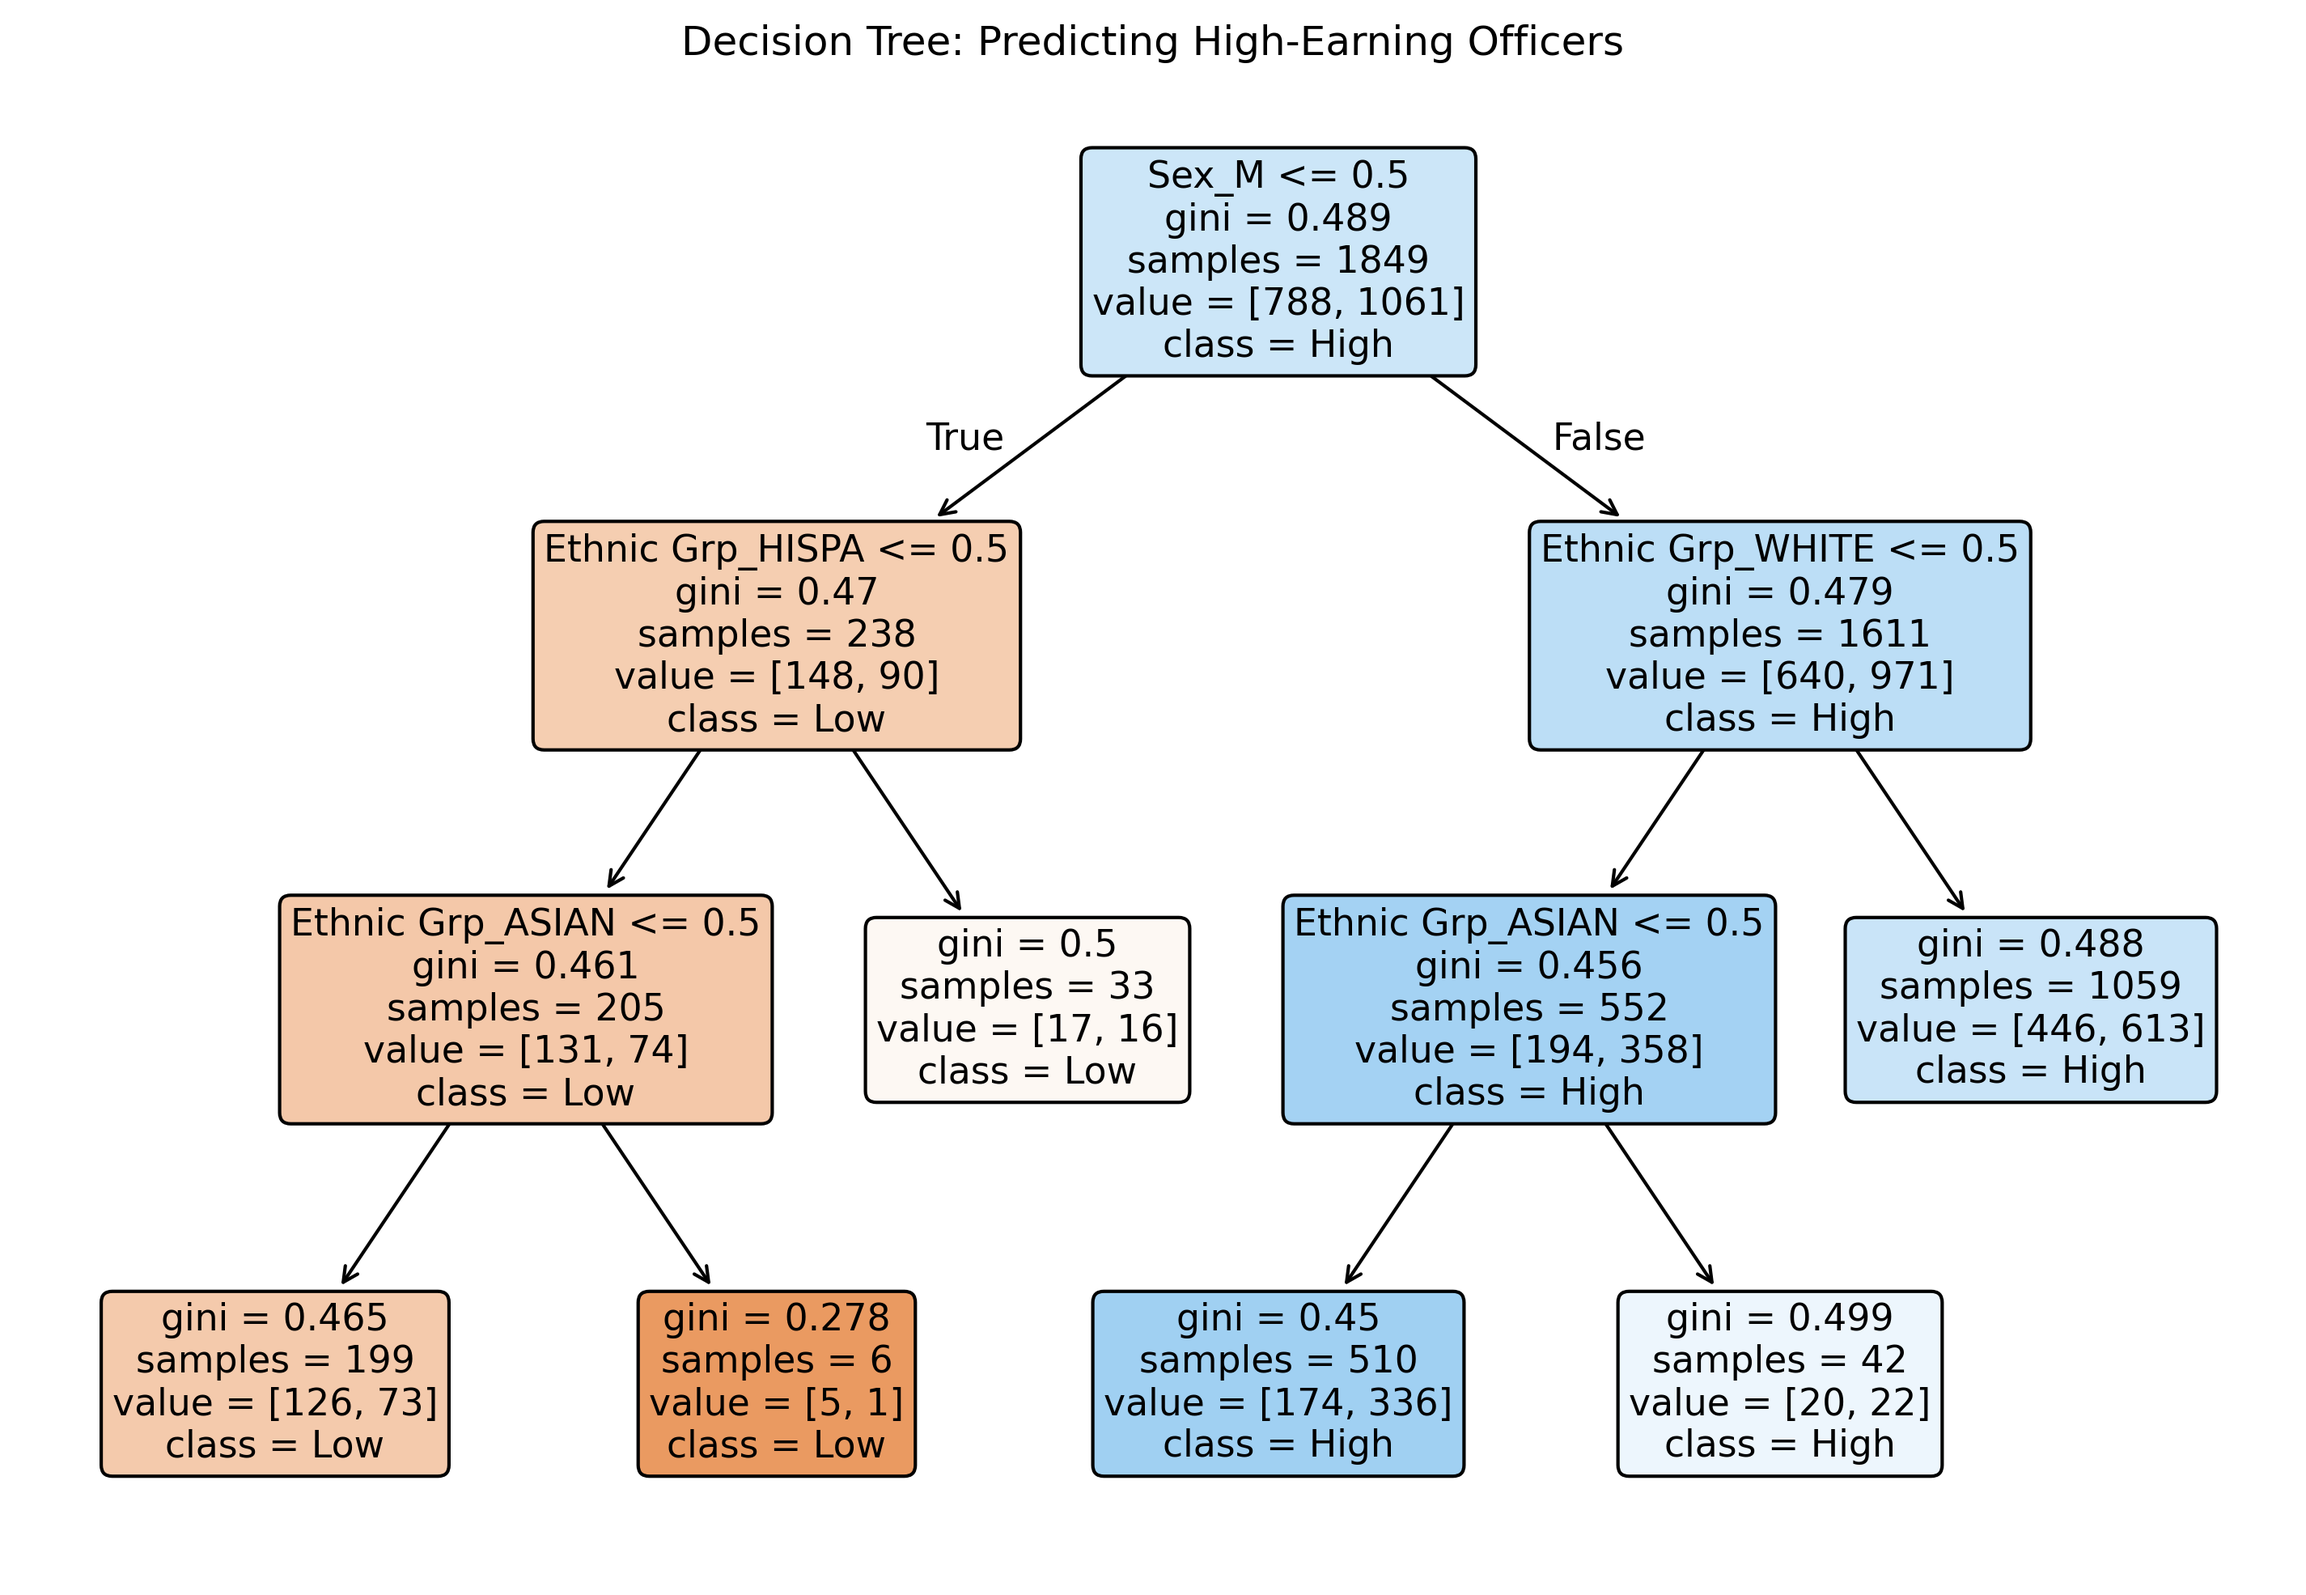
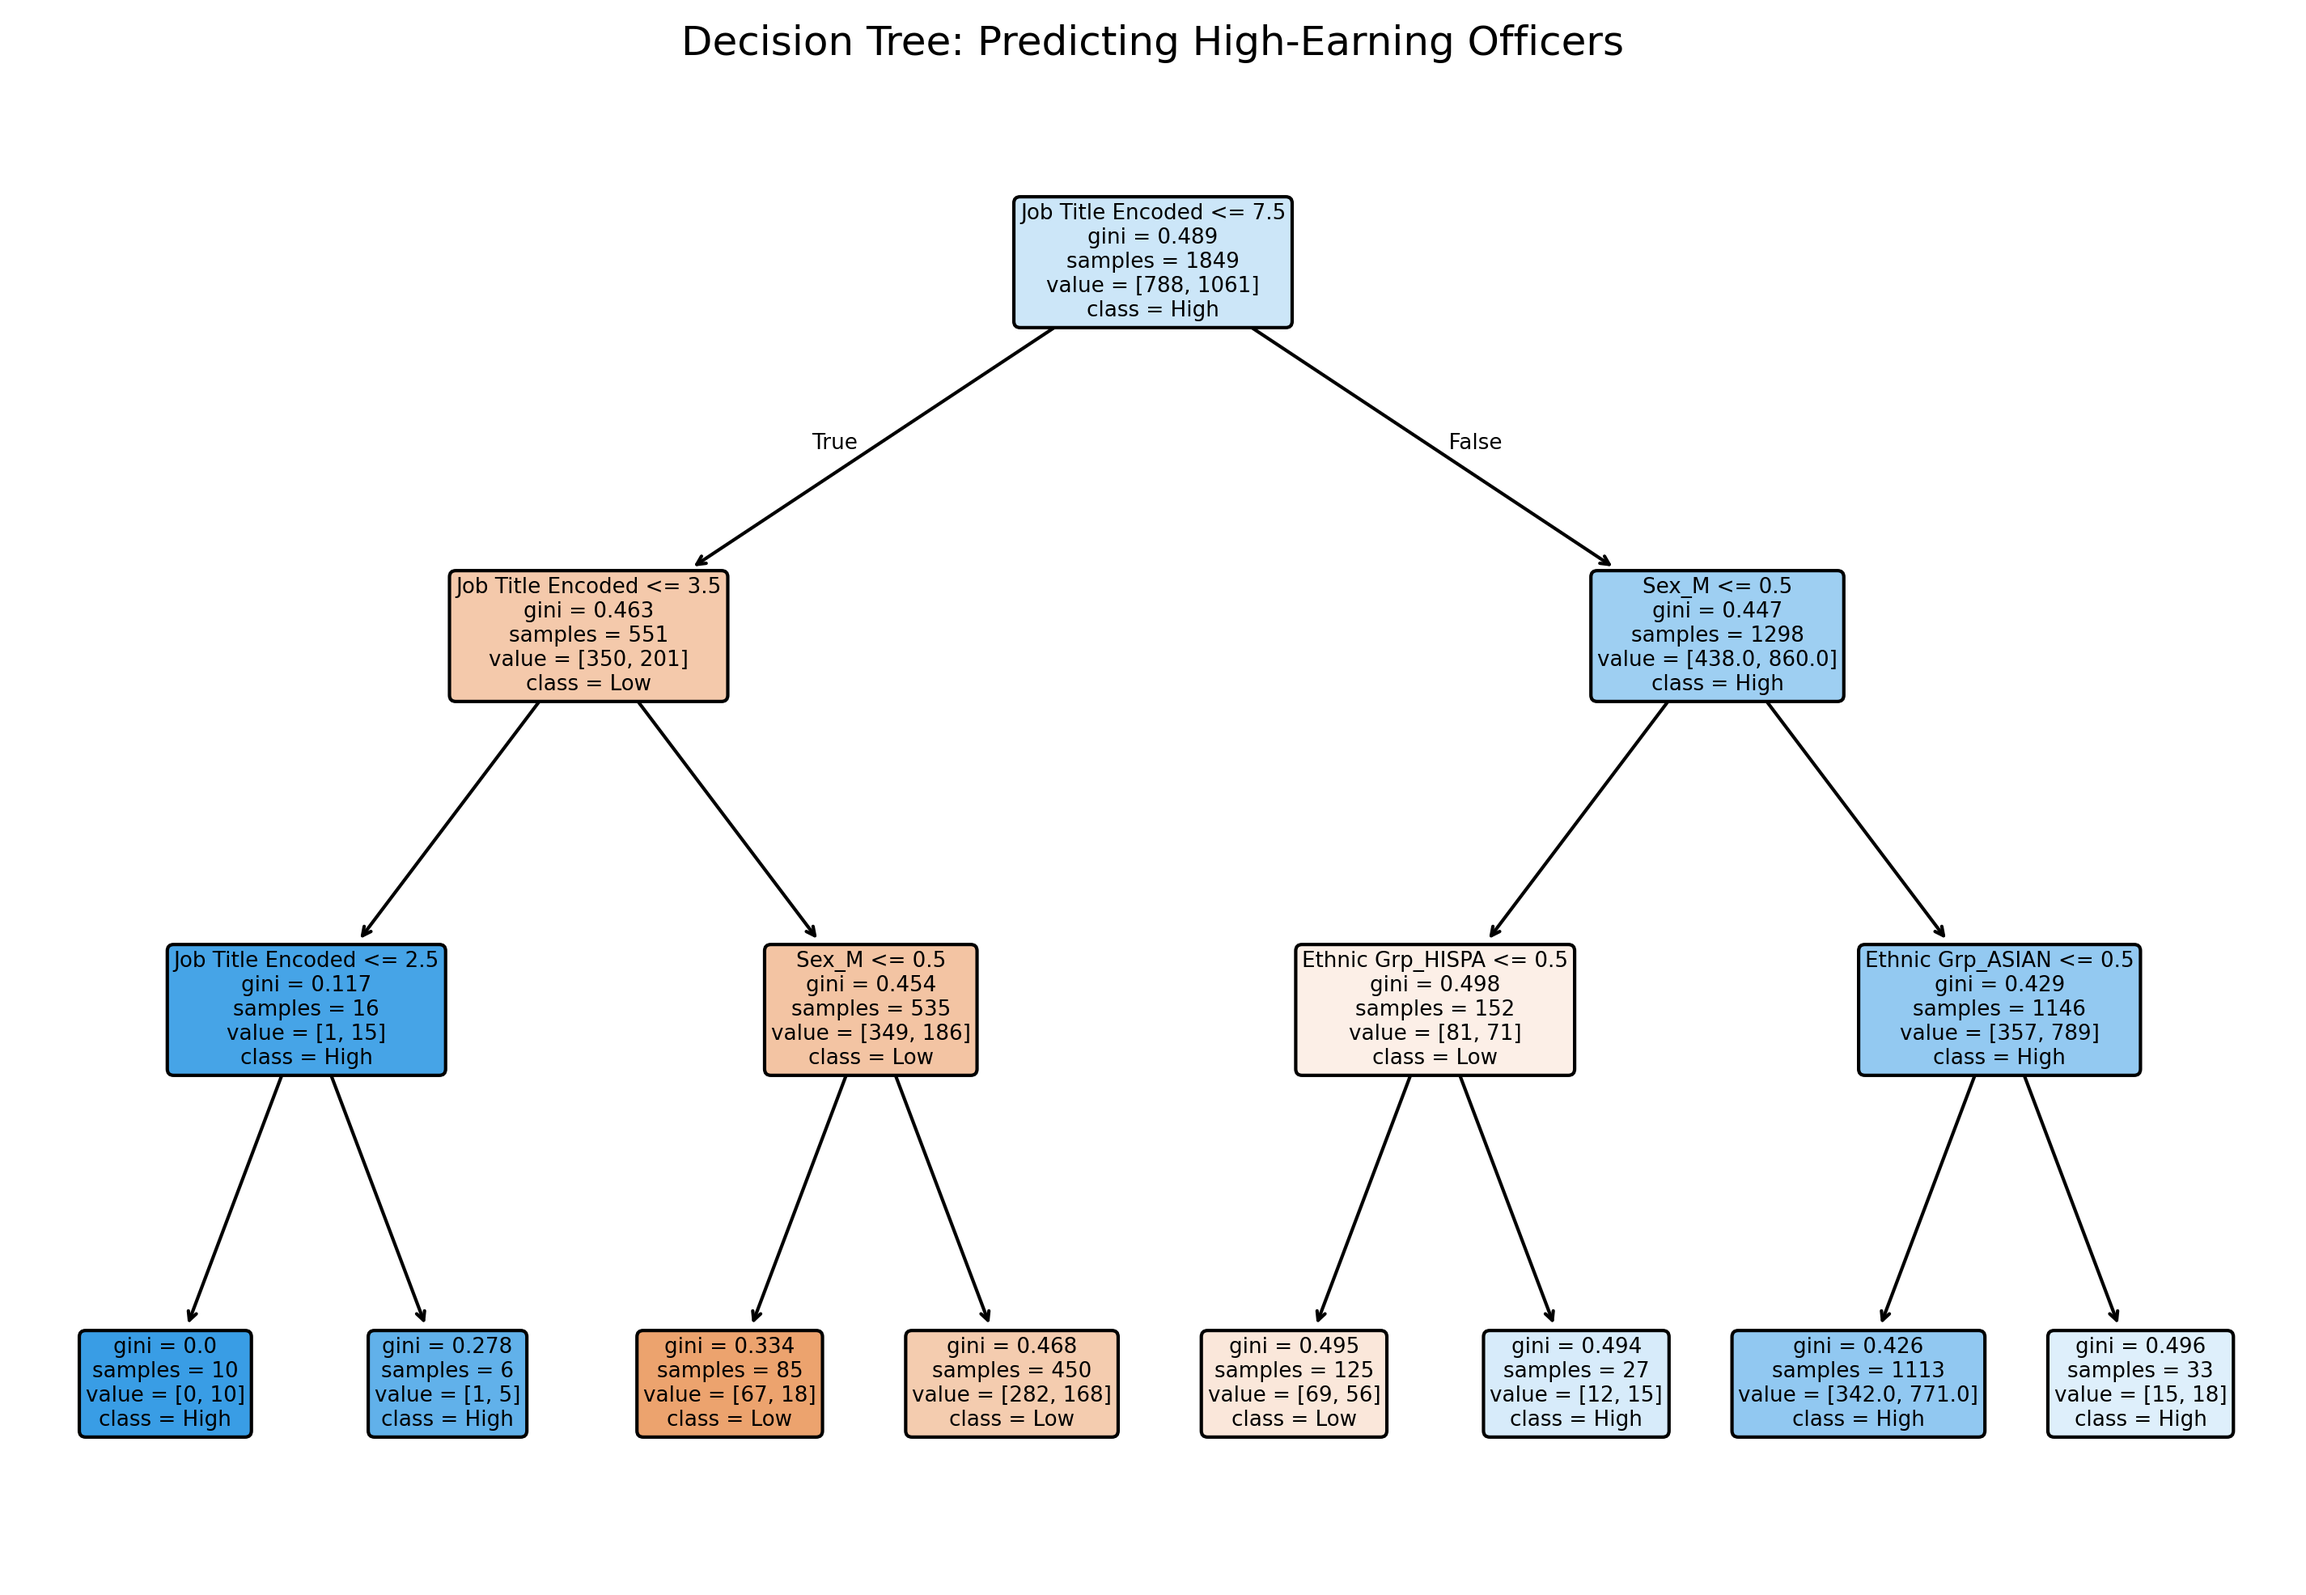
added encoded job title to decision tree

diff --git a/analysis/roster/decision_tree.py b/analysis/roster/decision_tree.py
@@ -31,7 +31,7 @@ if __name__ == "__main__":
     # Features to use for prediction
     # feature_cols = ['REGULAR', 'OVERTIME', 'DETAIL', 'QUINN_EDUCATION', 'INJURED', 'RETRO', 'OTHER', 'Sex_M', 'Ethnic Grp_BLACK', 'Ethnic Grp_HISPA', 'Ethnic Grp_WHITE', 'Ethnic Grp_ASIAN'] # everything possible
     # feature_cols = ['REGULAR', 'OVERTIME','Sex_M', 'Ethnic Grp_BLACK', 'Ethnic Grp_HISPA', 'Ethnic Grp_WHITE', 'Ethnic Grp_ASIAN'] # demographic info + minimal pay
-    feature_cols = ['Sex_M', 'Ethnic Grp_BLACK', 'Ethnic Grp_HISPA', 'Ethnic Grp_WHITE', 'Ethnic Grp_ASIAN'] # most minimal set, just demogrpahic info
+    feature_cols = ['Sex_M', 'Ethnic Grp_BLACK', 'Ethnic Grp_HISPA', 'Ethnic Grp_WHITE', 'Ethnic Grp_ASIAN', 'Job Title Encoded'] # most minimal set, just demogrpahic info
     X = merged_df[feature_cols].copy()
     y = merged_df['High_Earner']
 
@@ -55,5 +55,5 @@ if __name__ == "__main__":
     output_dir = Path(__file__).parent / 'EDA'
     output_dir.mkdir(exist_ok=True)
     plt.savefig(output_dir / f'top_earners_decision_tree{2020}.png', bbox_inches='tight', dpi=300) # comment out when don't want saved
-    
+
     plt.show()
